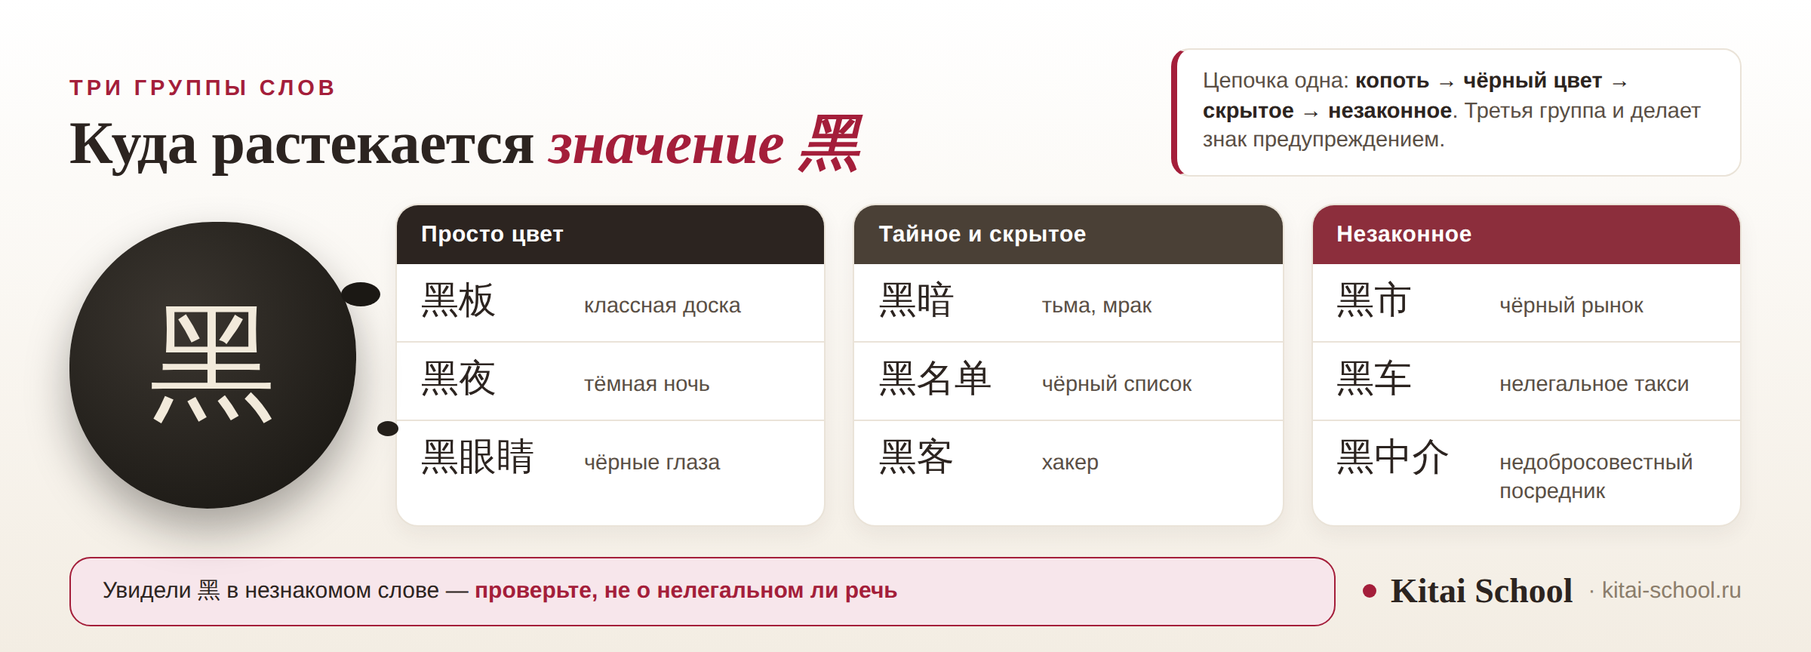
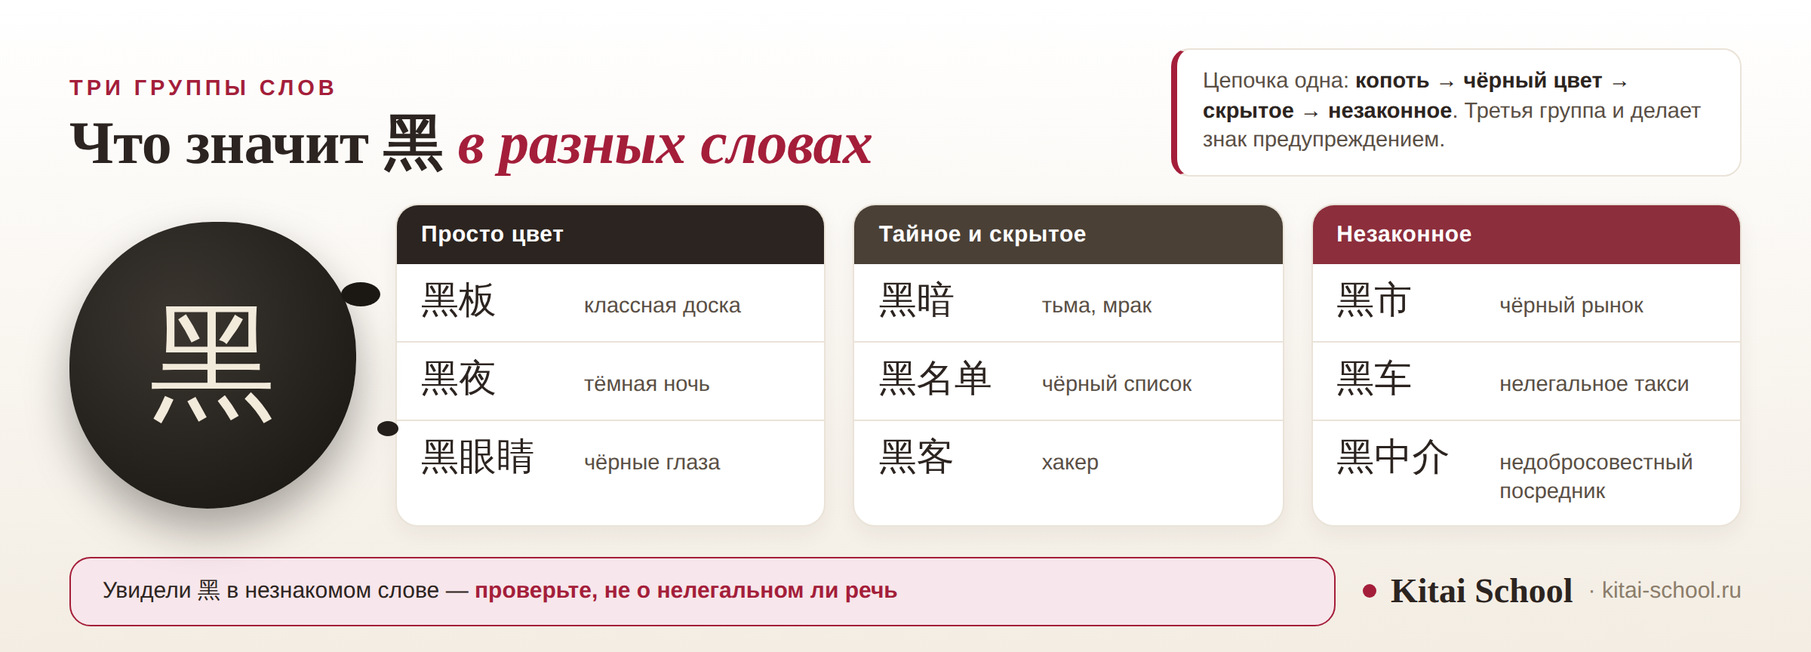
Правка формулировок в статье «Чёрный на китайском»
«Куда растекается значение» на инфографике заменено на «Что значит 黑
в разных словах». В тексте убраны ещё три оборота на месте обычных
глаголов: «рядом живёт», «ходят парой», «выстреливших из ниоткуда».

Claude-Session: https://claude.ai/code/session_017dS7Wuw6MNB5fnZSr6hVh2

Changed region(s): [[0.0312, 0.1562, 0.5, 0.2812]]

diff --git a/content/blog/chernyy-cvet-na-kitayskom.TILDA.html b/content/blog/chernyy-cvet-na-kitayskom.TILDA.html
@@ -242,7 +242,7 @@
 
 <p>Знаков с этим ключом немного, но два из них стоит знать. <span class="han">墨</span> (mò) — тушь: сверху 黑, снизу 土 «земля», и значение прозрачно, ведь тушь делали из сажи. Отсюда 墨水 (mòshuǐ) чернила и 水墨画 (shuǐmòhuà) живопись тушью. Второй знак — <span class="han">默</span> (mò), «молчать»: 沉默 (chénmò) молчание, 默默 (mòmò) молча, без слов.</p>
 
-<p>Зато слов, которые начинаются с 黑, очень много, и смысл в них держится на той самой цепочке от копоти к темноте. Цепочка эта короткая и понятная: копоть даёт название цвету, цвет переносится на темноту, темнота — на всё, что делается скрытно, а скрытное легко оказывается незаконным. Каждый шаг здесь объясним, и именно поэтому группы слов не нужно зубрить по отдельности. Разберём их по порядку: сначала безобидные, потом те, что служат предупреждением.</p>
+<p>Зато слов, которые начинаются с 黑, очень много, и значение в них объясняется той самой цепочкой от копоти к темноте. Цепочка эта короткая и понятная: копоть даёт название цвету, цвет переносится на темноту, темнота — на всё, что делается скрытно, а скрытное легко оказывается незаконным. Каждый шаг здесь объясним, и именно поэтому группы слов не нужно зубрить по отдельности. Разберём их по порядку: сначала безобидные, потом те, что служат предупреждением.</p>
 
 <h2>Слова, где чёрный — <span class="italic">это просто цвет</span></h2>
 
@@ -264,7 +264,7 @@
 </table>
 </div>
 
-<p>Самое употребительное в этом списке — 黑板. Классную доску называют чёрной независимо от того, какого она цвета на самом деле: слово закрепилось и стало названием предмета. Рядом живёт 黑板报 (hēibǎnbào) — стенгазета, которую в китайских школах рисуют мелом прямо на доске.</p>
+<p>Самое употребительное в этом списке — 黑板. Классную доску называют чёрной независимо от того, какого она цвета на самом деле: слово закрепилось и стало названием предмета. Рядом есть 黑板报 (hēibǎnbào) — стенгазета, которую в китайских школах рисуют мелом прямо на доске.</p>
 
 <p>Пара 黑夜 и 夜晚 (yèwǎn) показывает оттенок: второе — нейтральное «ночь, вечернее время», первое подчёркивает темноту. Поэтому 黑夜 чаще встречается в книжной речи и в описаниях, а в разговоре о времени берут 晚上.</p>
 
@@ -324,13 +324,13 @@
 
 <p><b>背黑锅</b> переводится как «отдуваться за чужую вину», дословно — «нести чёрный котёл». Происхождение выражения объясняют по-разному, и надёжной версии я не нашла, поэтому ограничусь значением. Употребляется оно часто, в том числе в разговоре о работе.</p>
 
-<p>А про <b>黑马</b> скажу осторожно: в китайском оно значит ровно то же, что русская «тёмная лошадка» — неожиданный победитель. Откуда слово пришло в китайский, в проверяемом виде я не нашла, так что утверждать ничего не буду. Употребляется оно широко: о спортсменах, о претендентах на пост, о фильмах, которые внезапно собрали кассу, и о компаниях, выстреливших из ниоткуда.</p>
+<p>А про <b>黑马</b> скажу осторожно: в китайском оно значит ровно то же, что русская «тёмная лошадка» — неожиданный победитель. Откуда слово пришло в китайский, в проверяемом виде я не нашла, так что утверждать ничего не буду. Употребляется оно широко: о спортсменах, о претендентах на пост, о фильмах, которые внезапно собрали кассу, и о компаниях, которые стали заметными за несколько месяцев.</p>
 
 <p>Сюда же стоит добавить 黑心 (hēixīn) — «чёрное сердце», то есть бессовестный. Чаще всего встречается в сочетании 黑心商家 — нечестный продавец, и в новостях о некачественных товарах. И 抹黑 (mǒhēi), дословно «замазать чёрным»: очернить, испортить репутацию — слово из газетного и политического языка, в бытовой речи оно звучит редко.</p>
 
 <h2>Пара <span class="italic">黑 и 白</span></h2>
 
-<p>Чёрный и белый в китайском, как и в русском, постоянно ходят парой — и в прямом смысле, и в переносном.</p>
+<p>Чёрный и белый в китайском, как и в русском, постоянно употребляются вместе — и в прямом смысле, и в переносном.</p>
 
 <ul>
   <li><span class="han">黑白</span> (hēibái) — чёрно-белый: о фотографии, кино, печати.</li>

diff --git a/content/blog/chernyy-cvet-na-kitayskom.html b/content/blog/chernyy-cvet-na-kitayskom.html
@@ -268,7 +268,7 @@
 
 <p>Знаков с этим ключом немного, но два из них стоит знать. <span class="han">墨</span> (mò) — тушь: сверху 黑, снизу 土 «земля», и значение прозрачно, ведь тушь делали из сажи. Отсюда 墨水 (mòshuǐ) чернила и 水墨画 (shuǐmòhuà) живопись тушью. Второй знак — <span class="han">默</span> (mò), «молчать»: 沉默 (chénmò) молчание, 默默 (mòmò) молча, без слов.</p>
 
-<p>Зато слов, которые начинаются с 黑, очень много, и смысл в них держится на той самой цепочке от копоти к темноте. Цепочка эта короткая и понятная: копоть даёт название цвету, цвет переносится на темноту, темнота — на всё, что делается скрытно, а скрытное легко оказывается незаконным. Каждый шаг здесь объясним, и именно поэтому группы слов не нужно зубрить по отдельности. Разберём их по порядку: сначала безобидные, потом те, что служат предупреждением.</p>
+<p>Зато слов, которые начинаются с 黑, очень много, и значение в них объясняется той самой цепочкой от копоти к темноте. Цепочка эта короткая и понятная: копоть даёт название цвету, цвет переносится на темноту, темнота — на всё, что делается скрытно, а скрытное легко оказывается незаконным. Каждый шаг здесь объясним, и именно поэтому группы слов не нужно зубрить по отдельности. Разберём их по порядку: сначала безобидные, потом те, что служат предупреждением.</p>
 
 <h2>Слова, где чёрный — <span class="italic">это просто цвет</span></h2>
 
@@ -290,7 +290,7 @@
 </table>
 </div>
 
-<p>Самое употребительное в этом списке — 黑板. Классную доску называют чёрной независимо от того, какого она цвета на самом деле: слово закрепилось и стало названием предмета. Рядом живёт 黑板报 (hēibǎnbào) — стенгазета, которую в китайских школах рисуют мелом прямо на доске.</p>
+<p>Самое употребительное в этом списке — 黑板. Классную доску называют чёрной независимо от того, какого она цвета на самом деле: слово закрепилось и стало названием предмета. Рядом есть 黑板报 (hēibǎnbào) — стенгазета, которую в китайских школах рисуют мелом прямо на доске.</p>
 
 <p>Пара 黑夜 и 夜晚 (yèwǎn) показывает оттенок: второе — нейтральное «ночь, вечернее время», первое подчёркивает темноту. Поэтому 黑夜 чаще встречается в книжной речи и в описаниях, а в разговоре о времени берут 晚上.</p>
 
@@ -350,13 +350,13 @@
 
 <p><b>背黑锅</b> переводится как «отдуваться за чужую вину», дословно — «нести чёрный котёл». Происхождение выражения объясняют по-разному, и надёжной версии я не нашла, поэтому ограничусь значением. Употребляется оно часто, в том числе в разговоре о работе.</p>
 
-<p>А про <b>黑马</b> скажу осторожно: в китайском оно значит ровно то же, что русская «тёмная лошадка» — неожиданный победитель. Откуда слово пришло в китайский, в проверяемом виде я не нашла, так что утверждать ничего не буду. Употребляется оно широко: о спортсменах, о претендентах на пост, о фильмах, которые внезапно собрали кассу, и о компаниях, выстреливших из ниоткуда.</p>
+<p>А про <b>黑马</b> скажу осторожно: в китайском оно значит ровно то же, что русская «тёмная лошадка» — неожиданный победитель. Откуда слово пришло в китайский, в проверяемом виде я не нашла, так что утверждать ничего не буду. Употребляется оно широко: о спортсменах, о претендентах на пост, о фильмах, которые внезапно собрали кассу, и о компаниях, которые стали заметными за несколько месяцев.</p>
 
 <p>Сюда же стоит добавить 黑心 (hēixīn) — «чёрное сердце», то есть бессовестный. Чаще всего встречается в сочетании 黑心商家 — нечестный продавец, и в новостях о некачественных товарах. И 抹黑 (mǒhēi), дословно «замазать чёрным»: очернить, испортить репутацию — слово из газетного и политического языка, в бытовой речи оно звучит редко.</p>
 
 <h2>Пара <span class="italic">黑 и 白</span></h2>
 
-<p>Чёрный и белый в китайском, как и в русском, постоянно ходят парой — и в прямом смысле, и в переносном.</p>
+<p>Чёрный и белый в китайском, как и в русском, постоянно употребляются вместе — и в прямом смысле, и в переносном.</p>
 
 <ul>
   <li><span class="han">黑白</span> (hēibái) — чёрно-белый: о фотографии, кино, печати.</li>

diff --git a/content/build-chernyy.py b/content/build-chernyy.py
@@ -277,7 +277,7 @@ CARD_ROWS
 
 <p>Знаков с этим ключом немного, но два из них стоит знать. <span class="han">墨</span> (mò) — тушь: сверху 黑, снизу 土 «земля», и значение прозрачно, ведь тушь делали из сажи. Отсюда 墨水 (mòshuǐ) чернила и 水墨画 (shuǐmòhuà) живопись тушью. Второй знак — <span class="han">默</span> (mò), «молчать»: 沉默 (chénmò) молчание, 默默 (mòmò) молча, без слов.</p>
 
-<p>Зато слов, которые начинаются с 黑, очень много, и смысл в них держится на той самой цепочке от копоти к темноте. Цепочка эта короткая и понятная: копоть даёт название цвету, цвет переносится на темноту, темнота — на всё, что делается скрытно, а скрытное легко оказывается незаконным. Каждый шаг здесь объясним, и именно поэтому группы слов не нужно зубрить по отдельности. Разберём их по порядку: сначала безобидные, потом те, что служат предупреждением.</p>
+<p>Зато слов, которые начинаются с 黑, очень много, и значение в них объясняется той самой цепочкой от копоти к темноте. Цепочка эта короткая и понятная: копоть даёт название цвету, цвет переносится на темноту, темнота — на всё, что делается скрытно, а скрытное легко оказывается незаконным. Каждый шаг здесь объясним, и именно поэтому группы слов не нужно зубрить по отдельности. Разберём их по порядку: сначала безобидные, потом те, что служат предупреждением.</p>
 
 <h2>Слова, где чёрный — <span class="italic">это просто цвет</span></h2>
 
@@ -295,7 +295,7 @@ COLOR_ROWS
 </table>
 </div>
 
-<p>Самое употребительное в этом списке — 黑板. Классную доску называют чёрной независимо от того, какого она цвета на самом деле: слово закрепилось и стало названием предмета. Рядом живёт 黑板报 (hēibǎnbào) — стенгазета, которую в китайских школах рисуют мелом прямо на доске.</p>
+<p>Самое употребительное в этом списке — 黑板. Классную доску называют чёрной независимо от того, какого она цвета на самом деле: слово закрепилось и стало названием предмета. Рядом есть 黑板报 (hēibǎnbào) — стенгазета, которую в китайских школах рисуют мелом прямо на доске.</p>
 
 <p>Пара 黑夜 и 夜晚 (yèwǎn) показывает оттенок: второе — нейтральное «ночь, вечернее время», первое подчёркивает темноту. Поэтому 黑夜 чаще встречается в книжной речи и в описаниях, а в разговоре о времени берут 晚上.</p>
 
@@ -341,13 +341,13 @@ SPECIAL_ROWS
 
 <p><b>背黑锅</b> переводится как «отдуваться за чужую вину», дословно — «нести чёрный котёл». Происхождение выражения объясняют по-разному, и надёжной версии я не нашла, поэтому ограничусь значением. Употребляется оно часто, в том числе в разговоре о работе.</p>
 
-<p>А про <b>黑马</b> скажу осторожно: в китайском оно значит ровно то же, что русская «тёмная лошадка» — неожиданный победитель. Откуда слово пришло в китайский, в проверяемом виде я не нашла, так что утверждать ничего не буду. Употребляется оно широко: о спортсменах, о претендентах на пост, о фильмах, которые внезапно собрали кассу, и о компаниях, выстреливших из ниоткуда.</p>
+<p>А про <b>黑马</b> скажу осторожно: в китайском оно значит ровно то же, что русская «тёмная лошадка» — неожиданный победитель. Откуда слово пришло в китайский, в проверяемом виде я не нашла, так что утверждать ничего не буду. Употребляется оно широко: о спортсменах, о претендентах на пост, о фильмах, которые внезапно собрали кассу, и о компаниях, которые стали заметными за несколько месяцев.</p>
 
 <p>Сюда же стоит добавить 黑心 (hēixīn) — «чёрное сердце», то есть бессовестный. Чаще всего встречается в сочетании 黑心商家 — нечестный продавец, и в новостях о некачественных товарах. И 抹黑 (mǒhēi), дословно «замазать чёрным»: очернить, испортить репутацию — слово из газетного и политического языка, в бытовой речи оно звучит редко.</p>
 
 <h2>Пара <span class="italic">黑 и 白</span></h2>
 
-<p>Чёрный и белый в китайском, как и в русском, постоянно ходят парой — и в прямом смысле, и в переносном.</p>
+<p>Чёрный и белый в китайском, как и в русском, постоянно употребляются вместе — и в прямом смысле, и в переносном.</p>
 
 <ul>
   <li><span class="han">黑白</span> (hēibái) — чёрно-белый: о фотографии, кино, печати.</li>

diff --git a/content/img-chernyy.py b/content/img-chernyy.py
@@ -113,7 +113,7 @@ h2 i{font-style:italic;color:var(--brick)}
   <div class="top">
     <div>
       <div class="eyebrow">Три группы слов</div>
-      <h2>Куда растекается <i>значение 黑</i></h2>
+      <h2>Что значит 黑 <i>в разных словах</i></h2>
     </div>
     <div class="hint">Цепочка одна: <b>копоть → чёрный цвет → скрытое → незаконное</b>. Третья группа и делает знак предупреждением.</div>
   </div>
